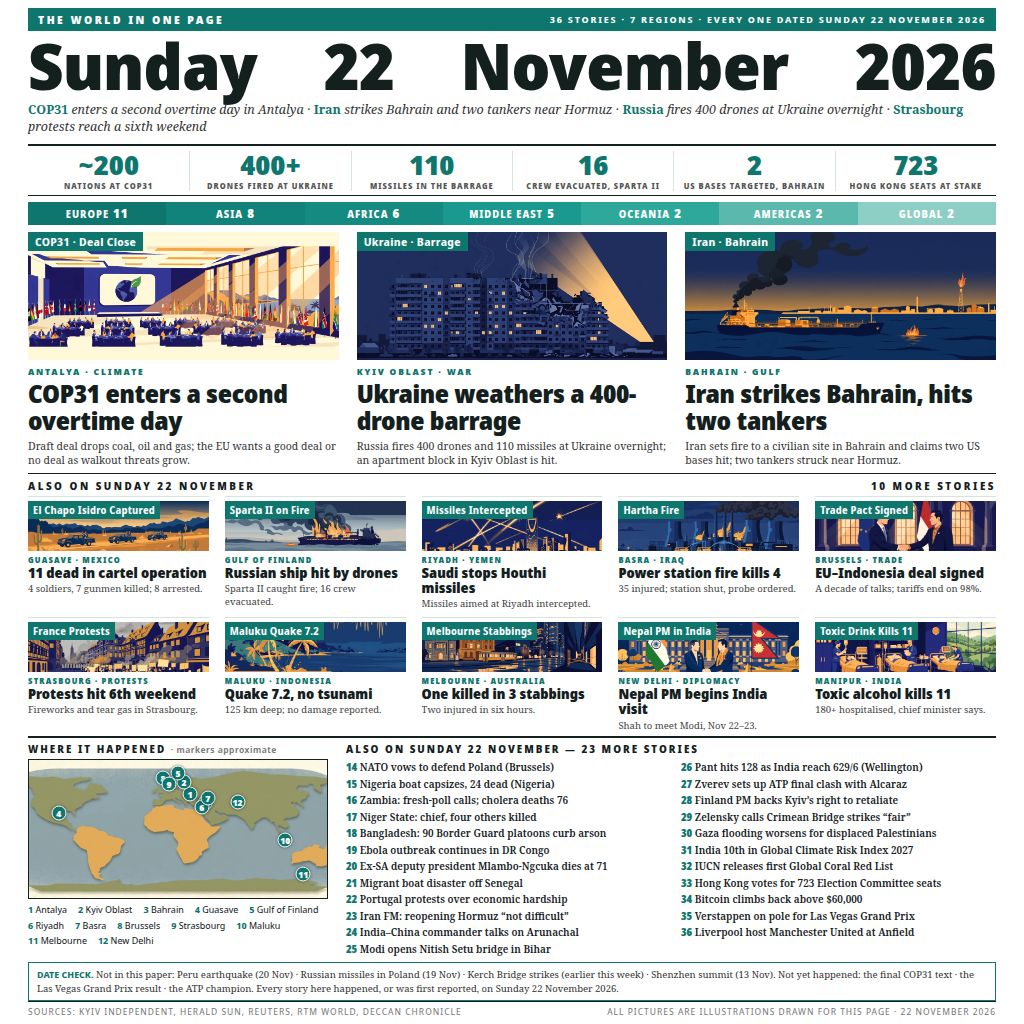
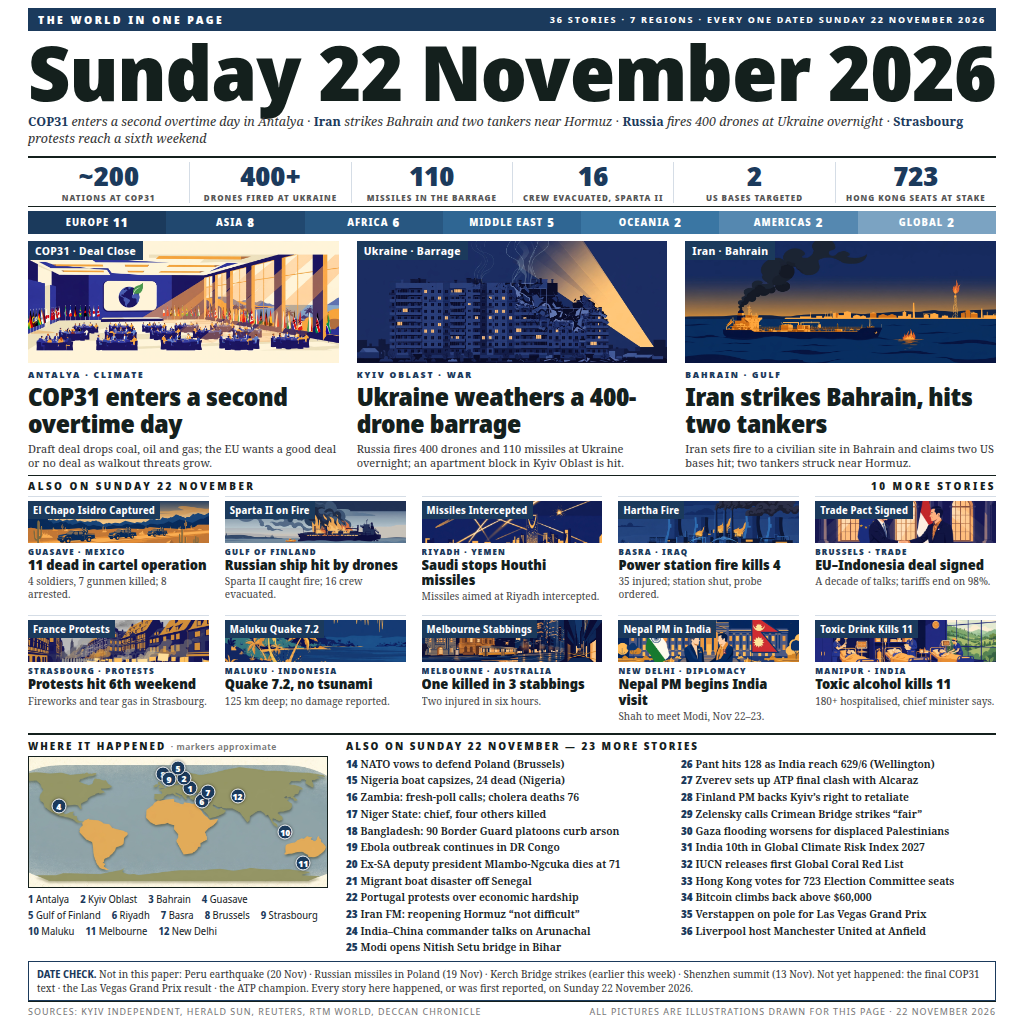
v6 — blue dominant colour, natural-spacing full-width masthead, better 300px legibility (Tem's feedback + judge breakdown)

diff --git a/main.ts b/main.ts
@@ -7,8 +7,8 @@
 // stories with large illustrations, ten small stories in two rows of five, a
 // small world map with twelve pins beside twenty-three more stories, a bordered
 // date-check box and a sources footer — thirty-six stories in all, seven
-// regions. v5 — back to the v3 base, full-width masthead, teal-balanced palette, semi-bold brief titles. Its identity is its own: a deep teal accent (#0f766e) on clean
-// white, bridging the blue thumbnails and the green, with Noto Sans Display Black for the masthead and all
+// regions. v5 — back to the v3 base, full-width masthead, teal-balanced palette, semi-bold brief titles. v6 — blue dominant colour (#1b3a5c) to match the blue thumbnails, natural-spacing full-width masthead (76px, measured 968px), better 300px legibility (larger, bolder small text). Its identity is its own: a deep newspaper blue accent (#1b3a5c) on clean
+// white, one coherent blue world with the blue thumbnails, with Noto Sans Display Black for the masthead and all
 // headlines, Noto Serif for the decks, sub-deck and the brief list (brief titles in semi-bold 600). All pictures are flat-design illustrations
 // drawn for this page and every word is set in crisp vector type. No network,
 // no randomness, no clock: the output is a pure byte copy of the image the
